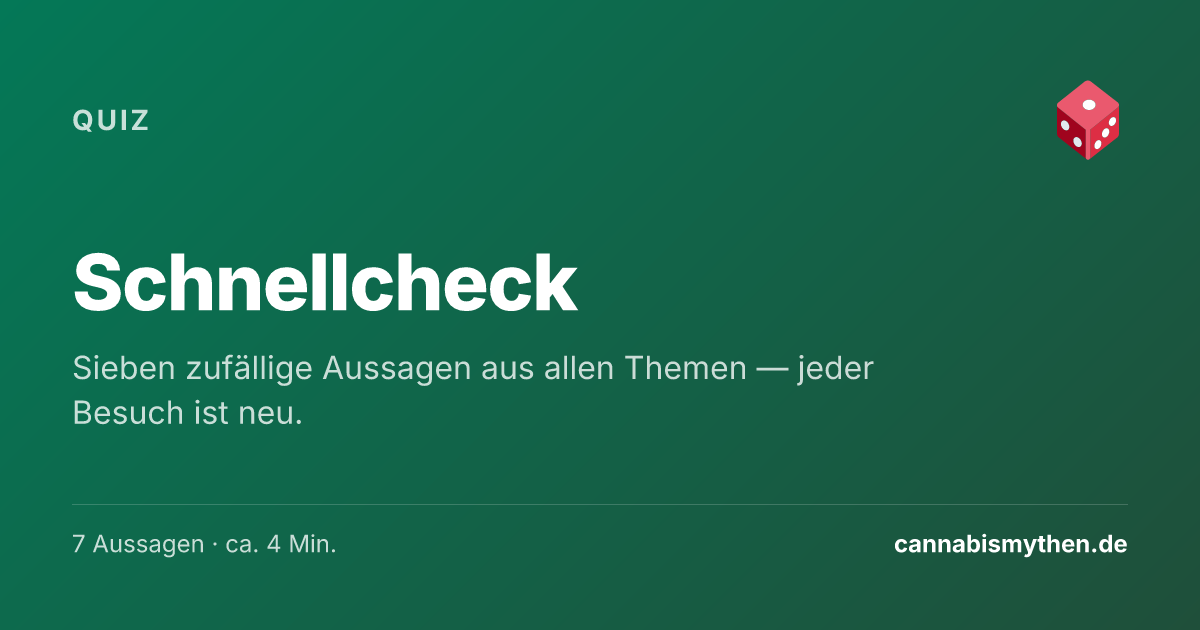
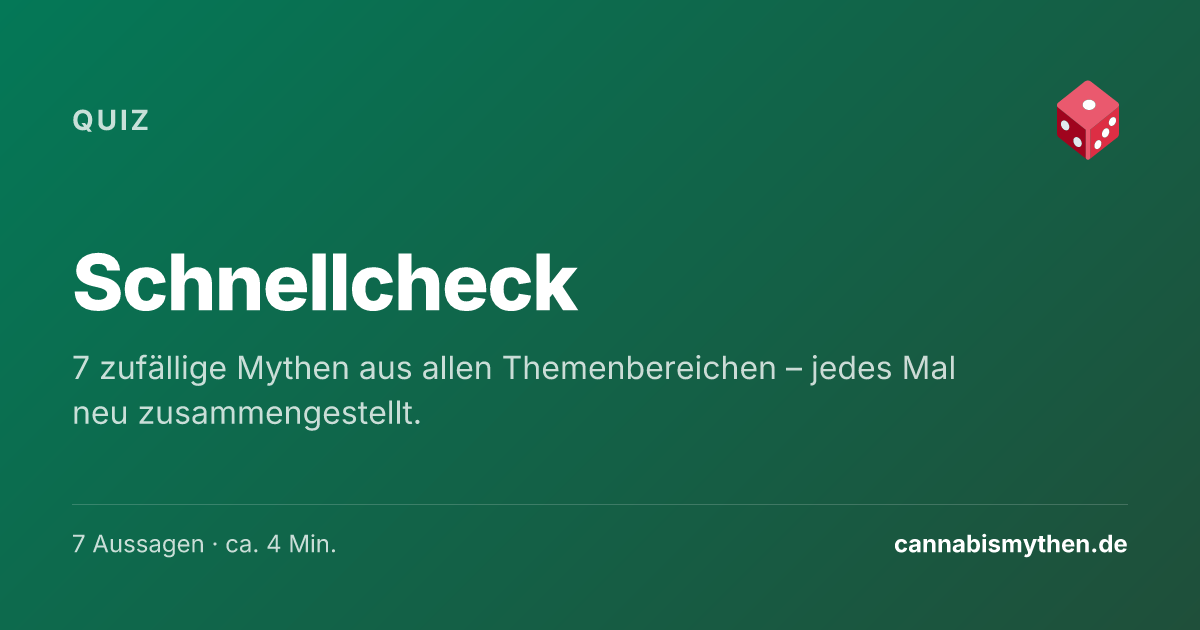
пщ

Changed region(s): [[0.0617, 0.5429, 0.8017, 0.6937]]

diff --git a/src/lib/dashboard/data.ts b/src/lib/dashboard/data.ts
@@ -312,19 +312,19 @@ function verdictArrowSvgString(verdict: Myth['correctness_class']): string {
     eher_richtig: { fg: '#4d7c0f', shadow: '#c2d3a3' },
     eher_falsch: { fg: '#b45309', shadow: '#e0b58d' },
     falsch: { fg: '#be123c', shadow: '#e9a8b9' },
-    no_classification: { fg: '#6b7280', shadow: '#94a3b8' },
+    keine_aussage_moeglich: { fg: '#6b7280', shadow: '#94a3b8' },
   };
   const rotations: Record<Myth['correctness_class'], string> = {
     richtig: 'rotate(180 12 12)',
     eher_richtig: 'rotate(-135 12 12)',
     eher_falsch: 'rotate(45 12 12)',
     falsch: '',
-    no_classification: '',
+    keine_aussage_moeglich: '',
   };
   const { fg, shadow } = colors[verdict];
   const rot = rotations[verdict];
   const tx = rot ? ` transform="${rot}"` : '';
-  if (verdict === 'no_classification') {
+  if (verdict === 'keine_aussage_moeglich') {
     return `<svg width="22" height="22" viewBox="0 0 24 24" style="display:block"><g fill="none" stroke-width="3" stroke-linecap="round" stroke-linejoin="round"><path d="M2 16h20" stroke="${shadow}"/></g></svg>`;
   }
   return `<svg width="22" height="22" viewBox="0 0 24 24" style="display:block"><g fill="none" stroke-width="3" stroke-linecap="round" stroke-linejoin="round"${tx}><path d="M2 16h20" stroke="${shadow}"/><path d="M12 2v14" stroke="${fg}"/><path d="m5 9 7 7 7-7" stroke="${fg}"/></g></svg>`;
@@ -343,9 +343,9 @@ export function buildTooltipHtml(opts: {
   // Canonical verdict label (lowercased for the "Wissenschaftlich …"
   // sentence; matches verdict.* in translations.ts).
   const verdictLabel = lang === 'de'
-    ? ({ richtig: 'richtig', eher_richtig: 'eher richtig', eher_falsch: 'eher falsch', falsch: 'falsch', no_classification: 'keine Einordnung möglich' }[myth.correctness_class])
-    : ({ richtig: 'correct', eher_richtig: 'tends to be correct', eher_falsch: 'tends to be incorrect', falsch: 'incorrect', no_classification: 'not classified' }[myth.correctness_class]);
-  const wissenschaftlich = myth.correctness_class === 'no_classification'
+    ? ({ richtig: 'richtig', eher_richtig: 'eher richtig', eher_falsch: 'eher falsch', falsch: 'falsch', keine_aussage_moeglich: 'keine Einordnung möglich' }[myth.correctness_class])
+    : ({ richtig: 'correct', eher_richtig: 'tends to be correct', eher_falsch: 'tends to be incorrect', falsch: 'incorrect', keine_aussage_moeglich: 'not classified' }[myth.correctness_class]);
+  const wissenschaftlich = myth.correctness_class === 'keine_aussage_moeglich'
     ? (lang === 'de' ? 'Wissenschaftlich: keine Einordnung möglich' : 'Scientific verdict: not classified')
     : `${lang === 'de' ? 'Wissenschaftlich' : 'Scientifically'}: ${verdictLabel}`;
   const indLabel = lang === 'de'
@@ -356,11 +356,11 @@ export function buildTooltipHtml(opts: {
   // Verdict tinting (matches getCorrectnessColor / getCorrectnessBgColor).
   const verdictColor = ({
     richtig: '#047857', eher_richtig: '#4d7c0f', eher_falsch: '#b45309',
-    falsch: '#be123c', no_classification: '#6b7280',
+    falsch: '#be123c', keine_aussage_moeglich: '#6b7280',
   } as const)[myth.correctness_class];
   const verdictBg = ({
     richtig: '#ecfdf5', eher_richtig: '#f7fee7', eher_falsch: '#fffbeb',
-    falsch: '#fff1f2', no_classification: '#f3f4f6',
+    falsch: '#fff1f2', keine_aussage_moeglich: '#f3f4f6',
   } as const)[myth.correctness_class];
 
   // Meta line: gruppe · indikator · value. Omit empty pieces gracefully.

diff --git a/src/styles/global.css b/src/styles/global.css
@@ -918,8 +918,15 @@ a.version-card:hover {
   color: var(--classification-falsch);
 }
 
+/* Iter-23b (2026-06-02): CorrectnessClass renamed
+   `no_classification` → `keine_aussage_moeglich`. The new canonical
+   selector is `.classification--keine_aussage_moeglich`; the older
+   aliases (`keine_aussage`, `no_classification`, `n_a`) stay as
+   legacy fallbacks for mdoc-authored content + any third-party
+   embeds that haven't been re-rendered. */
+.classification--keine_aussage_moeglich,
 .classification--keine_aussage,
-.classification--no_classification,
+.classification--keine_aussage_moeglich,
 .classification--n_a {
   background: var(--classification-keine-aussage-bg);
   color: var(--classification-keine-aussage);
@@ -967,7 +974,7 @@ a.version-card:hover {
 .pill--eher_falsch   { background: var(--classification-eher-falsch-bg);   color: var(--classification-eher-falsch); }
 .pill--falsch        { background: var(--classification-falsch-bg);        color: var(--classification-falsch); }
 .pill--keine_aussage,
-.pill--no_classification {
+.pill--keine_aussage_moeglich {
   background: var(--classification-keine-aussage-bg);
   color: var(--classification-keine-aussage);
 }
@@ -1010,7 +1017,7 @@ button.pill[aria-pressed="true"] {
 .statement--eher_falsch      { color: var(--classification-eher-falsch); }
 .statement--falsch           { color: var(--classification-falsch); }
 .statement--no-classification,
-.statement--no_classification { color: var(--color-text); }
+.statement--keine_aussage_moeglich { color: var(--color-text); }
 
 
 /* ── Bold verdict statement + trailing arrow (v3) ────────────
@@ -1048,7 +1055,7 @@ button.pill[aria-pressed="true"] {
   color: var(--classification-falsch);
 }
 .stmt.stmt--keine_aussage,
-.stmt.stmt--no_classification {
+.stmt.stmt--keine_aussage_moeglich {
   font-weight: 700;
   color: var(--classification-keine-aussage);
 }

diff --git a/src/lib/dashboard/colors.ts b/src/lib/dashboard/colors.ts
@@ -24,7 +24,7 @@ export const CORRECTNESS_COLORS: Record<CorrectnessClass, string> = {
   eher_richtig: '#4d7c0f',      // Lime-700
   eher_falsch: '#b45309',       // Amber-700
   falsch: '#be123c',            // Rose-700
-  no_classification: '#6b7280', // Gray-500
+  keine_aussage_moeglich: '#6b7280', // Gray-500
 };
 
 export function getCorrectnessColor(cls: CorrectnessClass): string {
@@ -37,7 +37,7 @@ export const CORRECTNESS_BG_COLORS: Record<CorrectnessClass, string> = {
   eher_richtig: '#f7fee7',      // Lime-50
   eher_falsch: '#fffbeb',       // Amber-50
   falsch: '#fff1f2',            // Rose-50
-  no_classification: '#f3f4f6', // Gray-100
+  keine_aussage_moeglich: '#f3f4f6', // Gray-100
 };
 
 export function getCorrectnessBgColor(cls: CorrectnessClass): string {
@@ -56,7 +56,7 @@ export const CORRECTNESS_FILL_COLORS: Record<CorrectnessClass, string> = {
   eher_richtig: '#65a30d',      // Lime-600
   eher_falsch: '#d97706',       // Amber-600
   falsch: '#e11d48',            // Rose-600
-  no_classification: '#6b7280', // Gray-500 (kept — no -600 for neutral)
+  keine_aussage_moeglich: '#6b7280', // Gray-500 (kept — no -600 for neutral)
 };
 
 export function getCorrectnessFillColor(cls: CorrectnessClass): string {
@@ -73,14 +73,14 @@ export function getCorrectnessFillColor(cls: CorrectnessClass): string {
  *   eher_richtig     → ArrowUpRight   ↗
  *   eher_falsch      → ArrowDownLeft  ↙
  *   falsch           → ArrowDown      ↓
- *   no_classification → Minus         —
+ *   keine_aussage_moeglich → Minus         —
  */
 export const CORRECTNESS_ARROWS: Record<CorrectnessClass, LucideIcon> = {
   richtig: ArrowUp,
   eher_richtig: ArrowUpRight,
   eher_falsch: ArrowDownLeft,
   falsch: ArrowDown,
-  no_classification: Minus,
+  keine_aussage_moeglich: Minus,
 };
 
 export function getCorrectnessArrow(cls: CorrectnessClass): LucideIcon {
@@ -101,7 +101,7 @@ export const CORRECTNESS_ICONS: Record<CorrectnessClass, string> = {
   eher_richtig: '↗',
   eher_falsch: '↙',
   falsch: '↓',
-  no_classification: '—',
+  keine_aussage_moeglich: '—',
 };
 
 /**

diff --git a/src/components/scrollytelling/dataLoaders.ts b/src/components/scrollytelling/dataLoaders.ts
@@ -146,7 +146,7 @@ export const VERDICT_COLOR: Record<CorrectnessClass, string> = {
   eher_richtig: 'var(--classification-eher-richtig)',
   eher_falsch: 'var(--classification-eher-falsch)',
   falsch: 'var(--classification-falsch)',
-  no_classification: 'var(--classification-keine-aussage)',
+  keine_aussage_moeglich: 'var(--classification-keine-aussage)',
 };
 
 /** Step 4 / in-body legend uses the canonical verdict names (richtig,
@@ -157,17 +157,17 @@ export const VERDICT_LABEL_DE: Record<CorrectnessClass, string> = {
   eher_richtig: 'eher richtig',
   eher_falsch: 'eher falsch',
   falsch: 'falsch',
-  no_classification: 'keine Aussage',
+  keine_aussage_moeglich: 'keine Aussage möglich',
 };
 
 /** Display order — falsch → richtig (matches the daten-explorer
- *  filter row site-wide). `no_classification` lands last. */
+ *  filter row site-wide). `keine_aussage_moeglich` lands last. */
 export const VERDICT_ORDER: CorrectnessClass[] = [
   'falsch',
   'eher_falsch',
   'eher_richtig',
   'richtig',
-  'no_classification',
+  'keine_aussage_moeglich',
 ];
 
 /** Override for the verdict glyph when it renders ON a verdict-colored
@@ -285,7 +285,7 @@ export function verdictCountsFromData(
     eher_richtig: 0,
     eher_falsch: 0,
     falsch: 0,
-    no_classification: 0,
+    keine_aussage_moeglich: 0,
   };
   for (const m of sortedMyths(data).slice(0, 42)) {
     counts[m.correctness_class]++;

diff --git a/src/components/shared/verdictGlyph.tsx b/src/components/shared/verdictGlyph.tsx
@@ -21,7 +21,7 @@
  *   eher_richtig      → rotate -135°  (tip up-right  ↗)
  *   eher_falsch       → rotate  45°   (tip down-left ↙)
  *   falsch            → rotate   0°   (tip down      ↓)
- *   no_classification →               (no arrow — shadow line only)
+ *   keine_aussage_moeglich →               (no arrow — shadow line only)
  *
  * Hex values track the `--classification-*` tokens in global.css.
  * Shadow colors are perceptual lighter shades (~50% blend toward the
@@ -41,7 +41,7 @@ interface GlyphSpec {
 }
 
 export const VERDICT_GLYPHS: Record<
-  Exclude<CorrectnessClass, 'no_classification'>,
+  Exclude<CorrectnessClass, 'keine_aussage_moeglich'>,
   GlyphSpec
 > = {
   richtig: { rotation: 180, main: '#047857', shadow: '#a7d3c5' },
@@ -96,13 +96,13 @@ export function VerdictGlyphPaths({
 }: VerdictGlyphPathsProps): JSX.Element {
   // Defensive lookup: a handful of older `.mdoc` entries still use the
   // legacy spelling `keine_aussage` instead of the canonical
-  // `no_classification`, and FAQ uses `n_a` for meta questions. Any
+  // `keine_aussage_moeglich`, and FAQ uses `n_a` for meta questions. Any
   // verdict that isn't one of the four directional variants renders the
   // flat shadow-line glyph (= "no scientific verdict") rather than
   // crashing on `spec.rotation` when the lookup misses.
   const spec =
-    verdict !== 'no_classification'
-      ? VERDICT_GLYPHS[verdict as Exclude<CorrectnessClass, 'no_classification'>]
+    verdict !== 'keine_aussage_moeglich'
+      ? VERDICT_GLYPHS[verdict as Exclude<CorrectnessClass, 'keine_aussage_moeglich'>]
       : undefined;
   if (!spec) {
     return (

diff --git a/src/styles/dashboard.css b/src/styles/dashboard.css
@@ -933,7 +933,7 @@ body:has(.carm-explorer) .nav {
   background: #fff1f2;
   color: #be123c;
 }
-.carm-explorer .class-chip.no_classification {
+.carm-explorer .class-chip.keine_aussage_moeglich {
   background: #f3f4f6;
   color: #6b7280;
 }
@@ -1390,7 +1390,10 @@ body:has(.carm-explorer) .nav {
   color: #be123c;
 }
 
-.classification--no_classification {
+/* Iter-23b: canonical selector is `keine_aussage_moeglich`; the
+   `no_classification` alias stays for legacy callers. */
+.classification--keine_aussage_moeglich,
+.classification--keine_aussage_moeglich {
   background: #f3f4f6;
   color: #6b7280;
 }
@@ -3562,7 +3565,8 @@ body:has(.carm-explorer) .nav {
 .strips-myth-card__bar.classification--eher_richtig { background: #4d7c0f; }
 .strips-myth-card__bar.classification--eher_falsch { background: #b45309; }
 .strips-myth-card__bar.classification--falsch { background: #be123c; }
-.strips-myth-card__bar.classification--no_classification { background: #6b7280; }
+.strips-myth-card__bar.classification--keine_aussage_moeglich,
+.strips-myth-card__bar.classification--keine_aussage_moeglich { background: #6b7280; }
 
 .strips-myth-card__bar-icon {
   font-size: 0.86rem;

diff --git a/src/components/scrollytelling/ScrollytellingViewer.tsx b/src/components/scrollytelling/ScrollytellingViewer.tsx
@@ -90,14 +90,19 @@ const SCROLLY_INLINE_ICONS: Record<string, InlineIconEntry> = {
  *
  * Both bracket forms accept the same set of arrow/verdict pairs so the
  * editor can pick "with label" vs "icon only" depending on context. */
+// Iter-23b (2026-06-02): the inline verdict-puck token accepts both the
+// new canonical label "keine Aussage möglich" (Harald's Feedbucket
+// #796936) and the legacy short form "keine Aussage" so historical
+// content still renders correctly until each surface is re-edited.
 const INLINE_RE =
-  /\[([↑↗↙↓—])\s+(richtig|eher richtig|eher falsch|falsch|keine Aussage)\]|\{([↑↗↙↓—])\s+(richtig|eher richtig|eher falsch|falsch|keine Aussage)\}|\*\*([^*]+)\*\*|\{icon:([a-z_-]+)\}/g;
+  /\[([↑↗↙↓—])\s+(richtig|eher richtig|eher falsch|falsch|keine Aussage möglich|keine Aussage)\]|\{([↑↗↙↓—])\s+(richtig|eher richtig|eher falsch|falsch|keine Aussage möglich|keine Aussage)\}|\*\*([^*]+)\*\*|\{icon:([a-z_-]+)\}/g;
 const VERDICT_LABEL_TO_CLASS: Record<string, CorrectnessClass> = {
   richtig: 'richtig',
   'eher richtig': 'eher_richtig',
   'eher falsch': 'eher_falsch',
   falsch: 'falsch',
-  'keine Aussage': 'no_classification',
+  'keine Aussage möglich': 'keine_aussage_moeglich',
+  'keine Aussage': 'keine_aussage_moeglich',
 };
 
 function renderBodyWithVerdicts(text: string): ReactNode[] {

diff --git a/src/lib/dashboard/spannweite-svg.ts b/src/lib/dashboard/spannweite-svg.ts
@@ -40,14 +40,14 @@ const VERDICT_FG: Record<CorrectnessClass, string> = {
   eher_richtig: '#4d7c0f',
   eher_falsch: '#b45309',
   falsch: '#be123c',
-  no_classification: '#6b7280',
+  keine_aussage_moeglich: '#6b7280',
 };
 const VERDICT_SHADOW: Record<CorrectnessClass, string> = {
   richtig: '#a7d3c5',
   eher_richtig: '#c2d3a3',
   eher_falsch: '#e0b58d',
   falsch: '#e9a8b9',
-  no_classification: '#94a3b8',
+  keine_aussage_moeglich: '#94a3b8',
 };
 // Per-verdict y-shift (px) so the chevron tip lands on the bar
 // midline, matching the on-page CSS `--y-shift`.
@@ -56,7 +56,7 @@ const VERDICT_Y_SHIFT: Record<CorrectnessClass, number> = {
   eher_richtig: 1.89,
   eher_falsch: -1.89,
   falsch: -2.67,
-  no_classification: 0,
+  keine_aussage_moeglich: 0,
 };
 
 const TOTAL_W = 1000;
@@ -90,7 +90,7 @@ function symbolDefs(): string {
     sym('strips-arrow-eher_richtig', 'rotate(-135 12 12)', full(VERDICT_FG.eher_richtig, VERDICT_SHADOW.eher_richtig)),
     sym('strips-arrow-eher_falsch', 'rotate(45 12 12)', full(VERDICT_FG.eher_falsch, VERDICT_SHADOW.eher_falsch)),
     sym('strips-arrow-falsch', '', full(VERDICT_FG.falsch, VERDICT_SHADOW.falsch)),
-    sym('strips-arrow-no_classification', '', lineOnly(VERDICT_SHADOW.no_classification)),
+    sym('strips-arrow-keine_aussage_moeglich', '', lineOnly(VERDICT_SHADOW.keine_aussage_moeglich)),
   ].join('');
 }
 

diff --git a/src/lib/dashboard/export.ts b/src/lib/dashboard/export.ts
@@ -174,7 +174,7 @@ export function downloadFullJSON(
     eher_richtig: 'Eher richtig',
     eher_falsch: 'Eher falsch',
     falsch: 'Falsch',
-    no_classification: 'Keine Aussage möglich',
+    keine_aussage_moeglich: 'Keine Aussage möglich',
   };
   const rows: Row[] = [];
   for (const m of myths) {
@@ -247,7 +247,7 @@ const VERDICT_GLYPH_GEOMETRY: Record<CorrectnessClass, { fg: string; shadow: str
   eher_richtig:      { fg: '#4d7c0f', shadow: '#c2d3a3', rotation: -3 * Math.PI / 4 }, // -135°
   eher_falsch:       { fg: '#b45309', shadow: '#e0b58d', rotation: Math.PI / 4 }, // 45°
   falsch:            { fg: '#be123c', shadow: '#e9a8b9', rotation: 0 },
-  no_classification: { fg: '#6b7280', shadow: '#94a3b8', rotation: 0 },
+  keine_aussage_moeglich: { fg: '#6b7280', shadow: '#94a3b8', rotation: 0 },
 };
 
 /** Draw a verdict-arrow glyph centred at (cx, cy) on a 2D canvas. Size
@@ -278,7 +278,7 @@ function drawVerdictGlyph(
   ctx.strokeStyle = shadow;
   ctx.stroke();
 
-  if (verdict !== 'no_classification') {
+  if (verdict !== 'keine_aussage_moeglich') {
     // Shaft.
     ctx.beginPath();
     ctx.moveTo(12, 2);

diff --git a/src/components/dashboard/views/OverviewView.tsx b/src/components/dashboard/views/OverviewView.tsx
@@ -35,7 +35,7 @@ const VERDICT_LABELS: Record<string, string> = {
   eher_richtig: 'Eher richtig',
   eher_falsch: 'Eher falsch',
   falsch: 'Falsch',
-  no_classification: 'Keine Aussage',
+  keine_aussage_moeglich: 'Keine Aussage möglich',
 };
 
 export default function OverviewView({ myths, metrics, state, update, onSelectMyth, categories }: Props) {
@@ -93,7 +93,7 @@ export default function OverviewView({ myths, metrics, state, update, onSelectMy
         <div className="overview-summary-verdicts">
           {Object.entries(verdictCounts)
             .sort(([a], [b]) => {
-              const order = ['richtig', 'eher_richtig', 'eher_falsch', 'falsch', 'no_classification'];
+              const order = ['richtig', 'eher_richtig', 'eher_falsch', 'falsch', 'keine_aussage_moeglich'];
               return order.indexOf(a) - order.indexOf(b);
             })
             .map(([verdict, count]) => (

diff --git a/src/components/dashboard/views/SpannweiteView.tsx b/src/components/dashboard/views/SpannweiteView.tsx
@@ -235,7 +235,7 @@ const SpannweiteView = forwardRef<SpannweiteViewHandle, Props>(function Spannwei
    *   - 'value-asc'/'value-desc' — per-column numeric (sortColumn).
    *     Nulls sort to the bottom in both directions. A-Z tie-break.
    *   - 'verdict-asc'/'verdict-desc' — by scientific verdict band
-   *     (richtig=1 → falsch=4, no_classification=5). A-Z tie-break. */
+   *     (richtig=1 → falsch=4, keine_aussage_moeglich=5). A-Z tie-break. */
   const sortedMyths = useMemo(() => {
     const rows = [...myths];
     const cmpAz = (a: Myth, b: Myth) =>
@@ -255,7 +255,7 @@ const SpannweiteView = forwardRef<SpannweiteViewHandle, Props>(function Spannwei
     } else if (sort === 'verdict-asc' || sort === 'verdict-desc') {
       const dir = sort === 'verdict-asc' ? 1 : -1;
       const order: Record<string, number> = {
-        richtig: 1, eher_richtig: 2, eher_falsch: 3, falsch: 4, no_classification: 5,
+        richtig: 1, eher_richtig: 2, eher_falsch: 3, falsch: 4, keine_aussage_moeglich: 5,
       };
       rows.sort((a, b) => {
         const oa = order[a.correctness_class] ?? 5;

diff --git a/src/components/fakten-karten/FaktenCard.tsx b/src/components/fakten-karten/FaktenCard.tsx
@@ -61,13 +61,13 @@ const VALID_VERDICTS: ReadonlySet<CorrectnessClass> = new Set([
   "eher_richtig",
   "eher_falsch",
   "falsch",
-  "no_classification",
+  "keine_aussage_moeglich",
 ]);
 
 function toVerdict(raw: string): CorrectnessClass {
   return VALID_VERDICTS.has(raw as CorrectnessClass)
     ? (raw as CorrectnessClass)
-    : "no_classification";
+    : "keine_aussage_moeglich";
 }
 
 export default function FaktenCard({